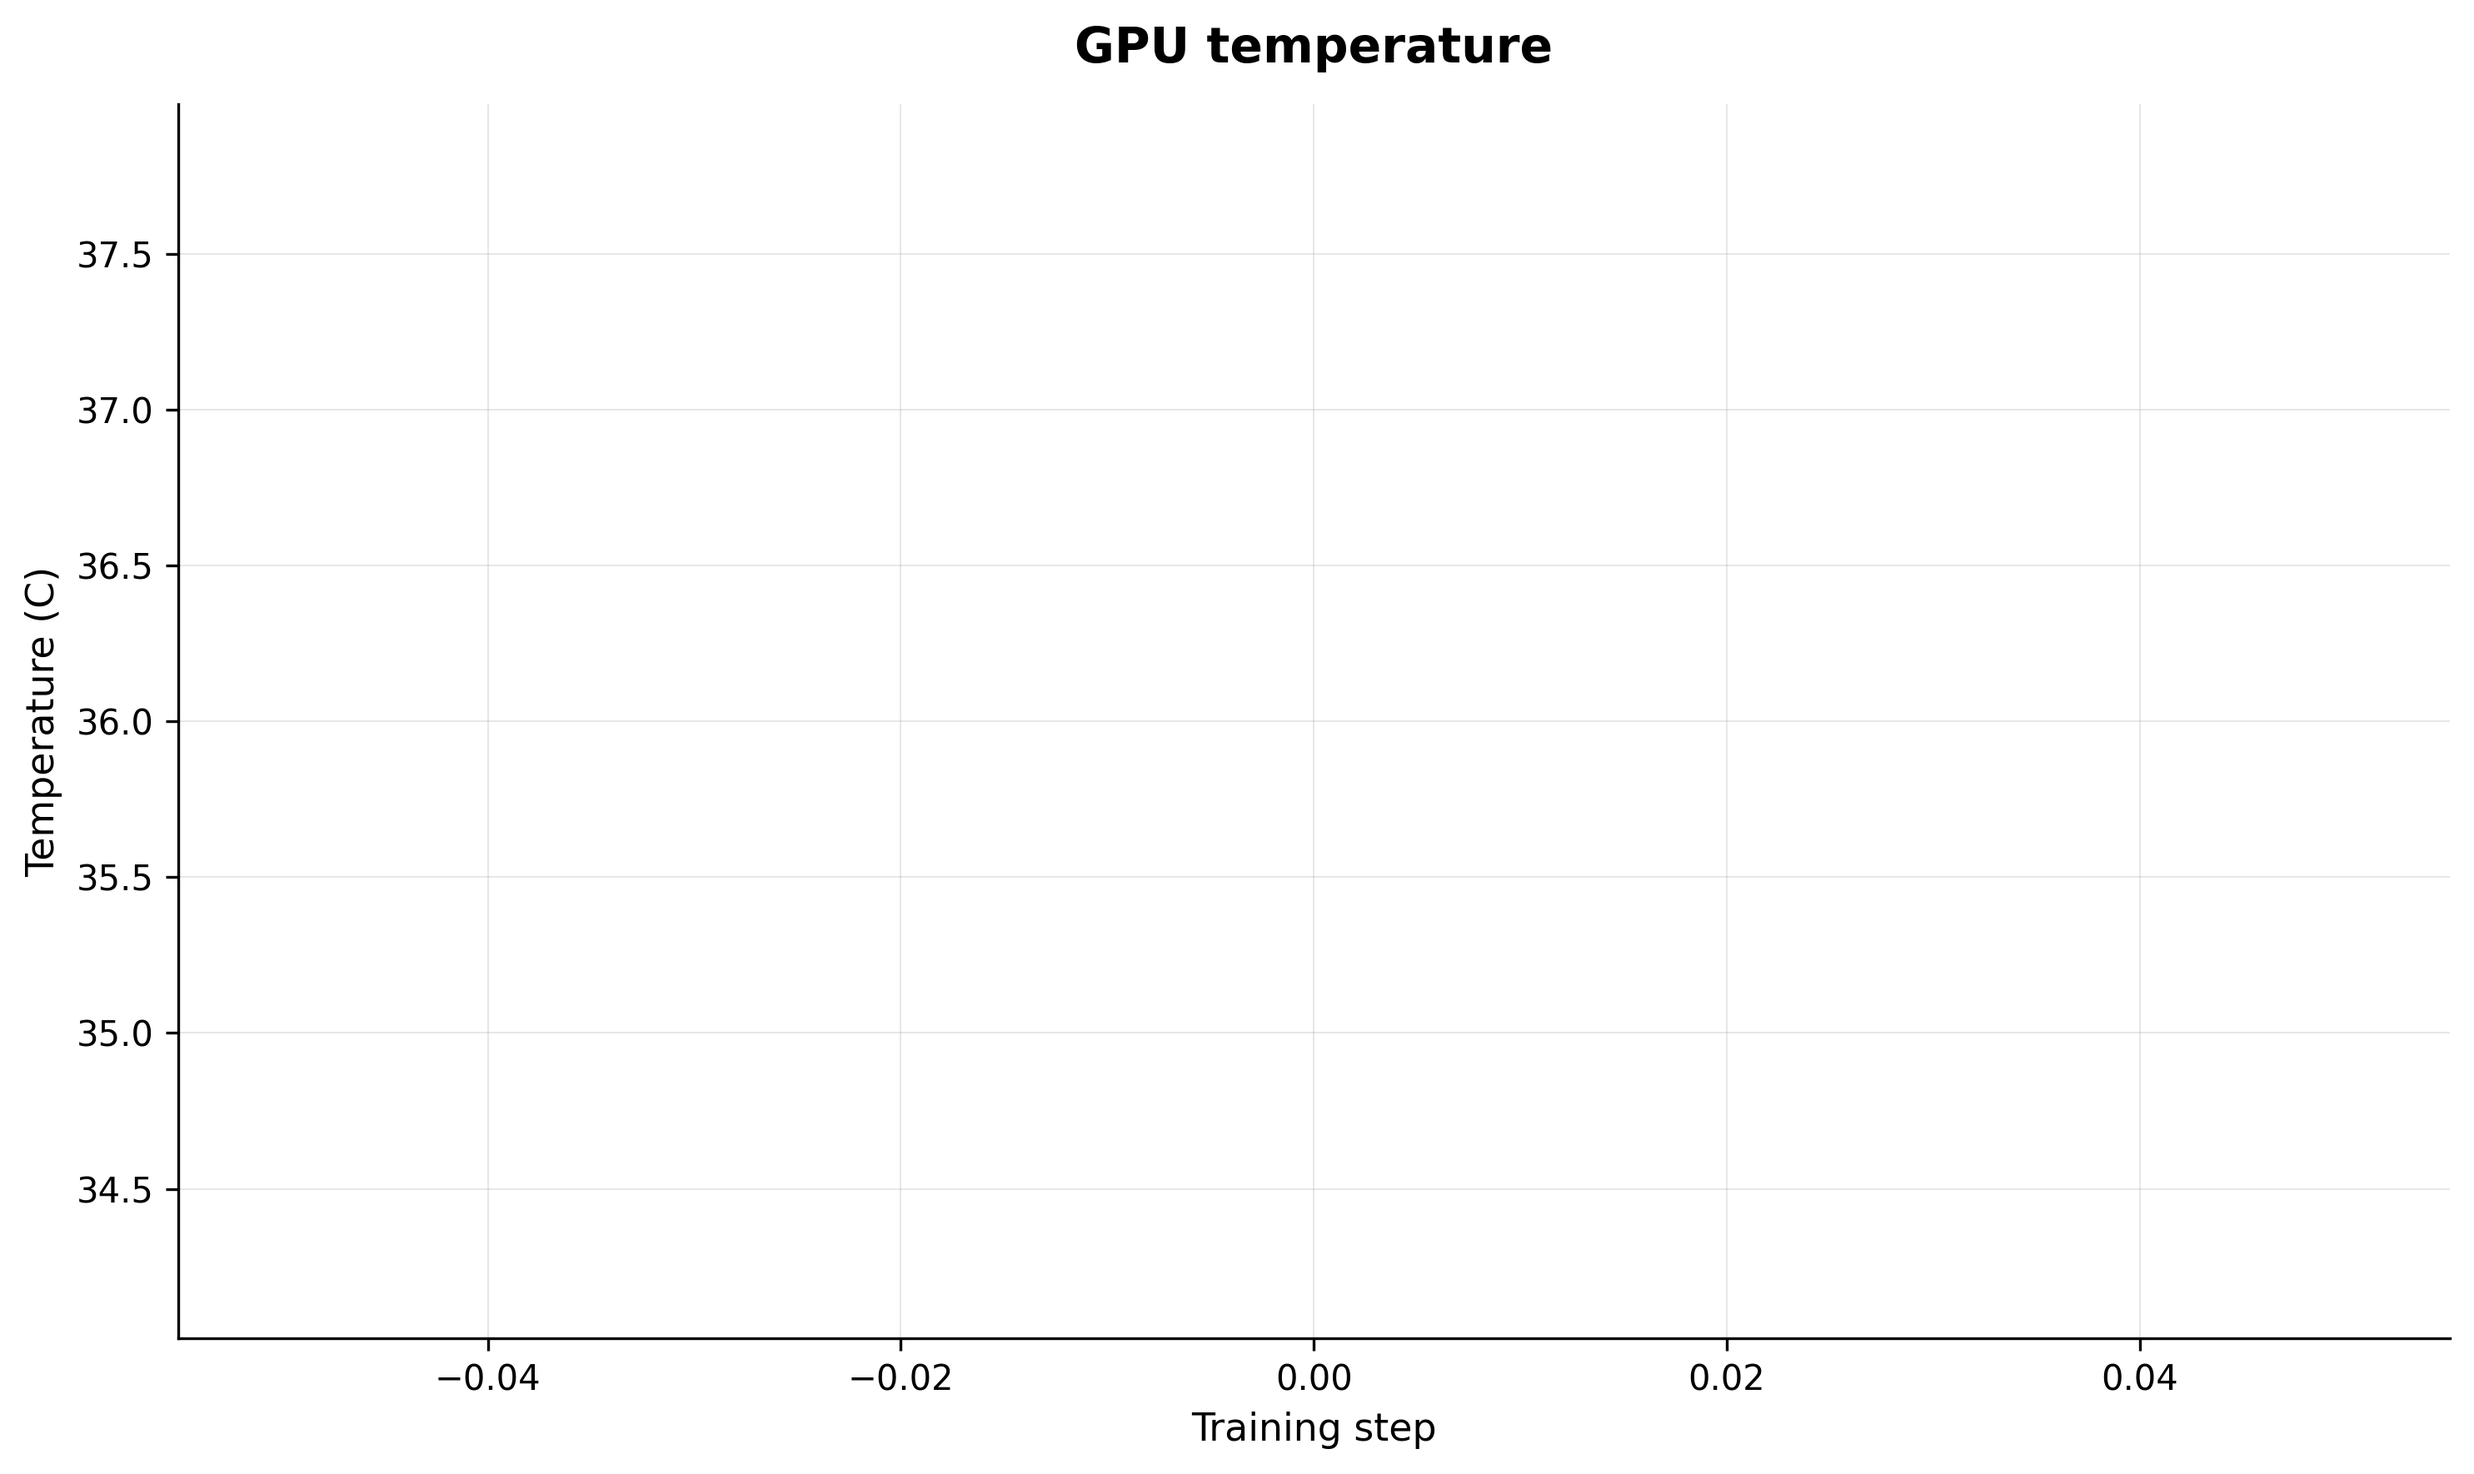
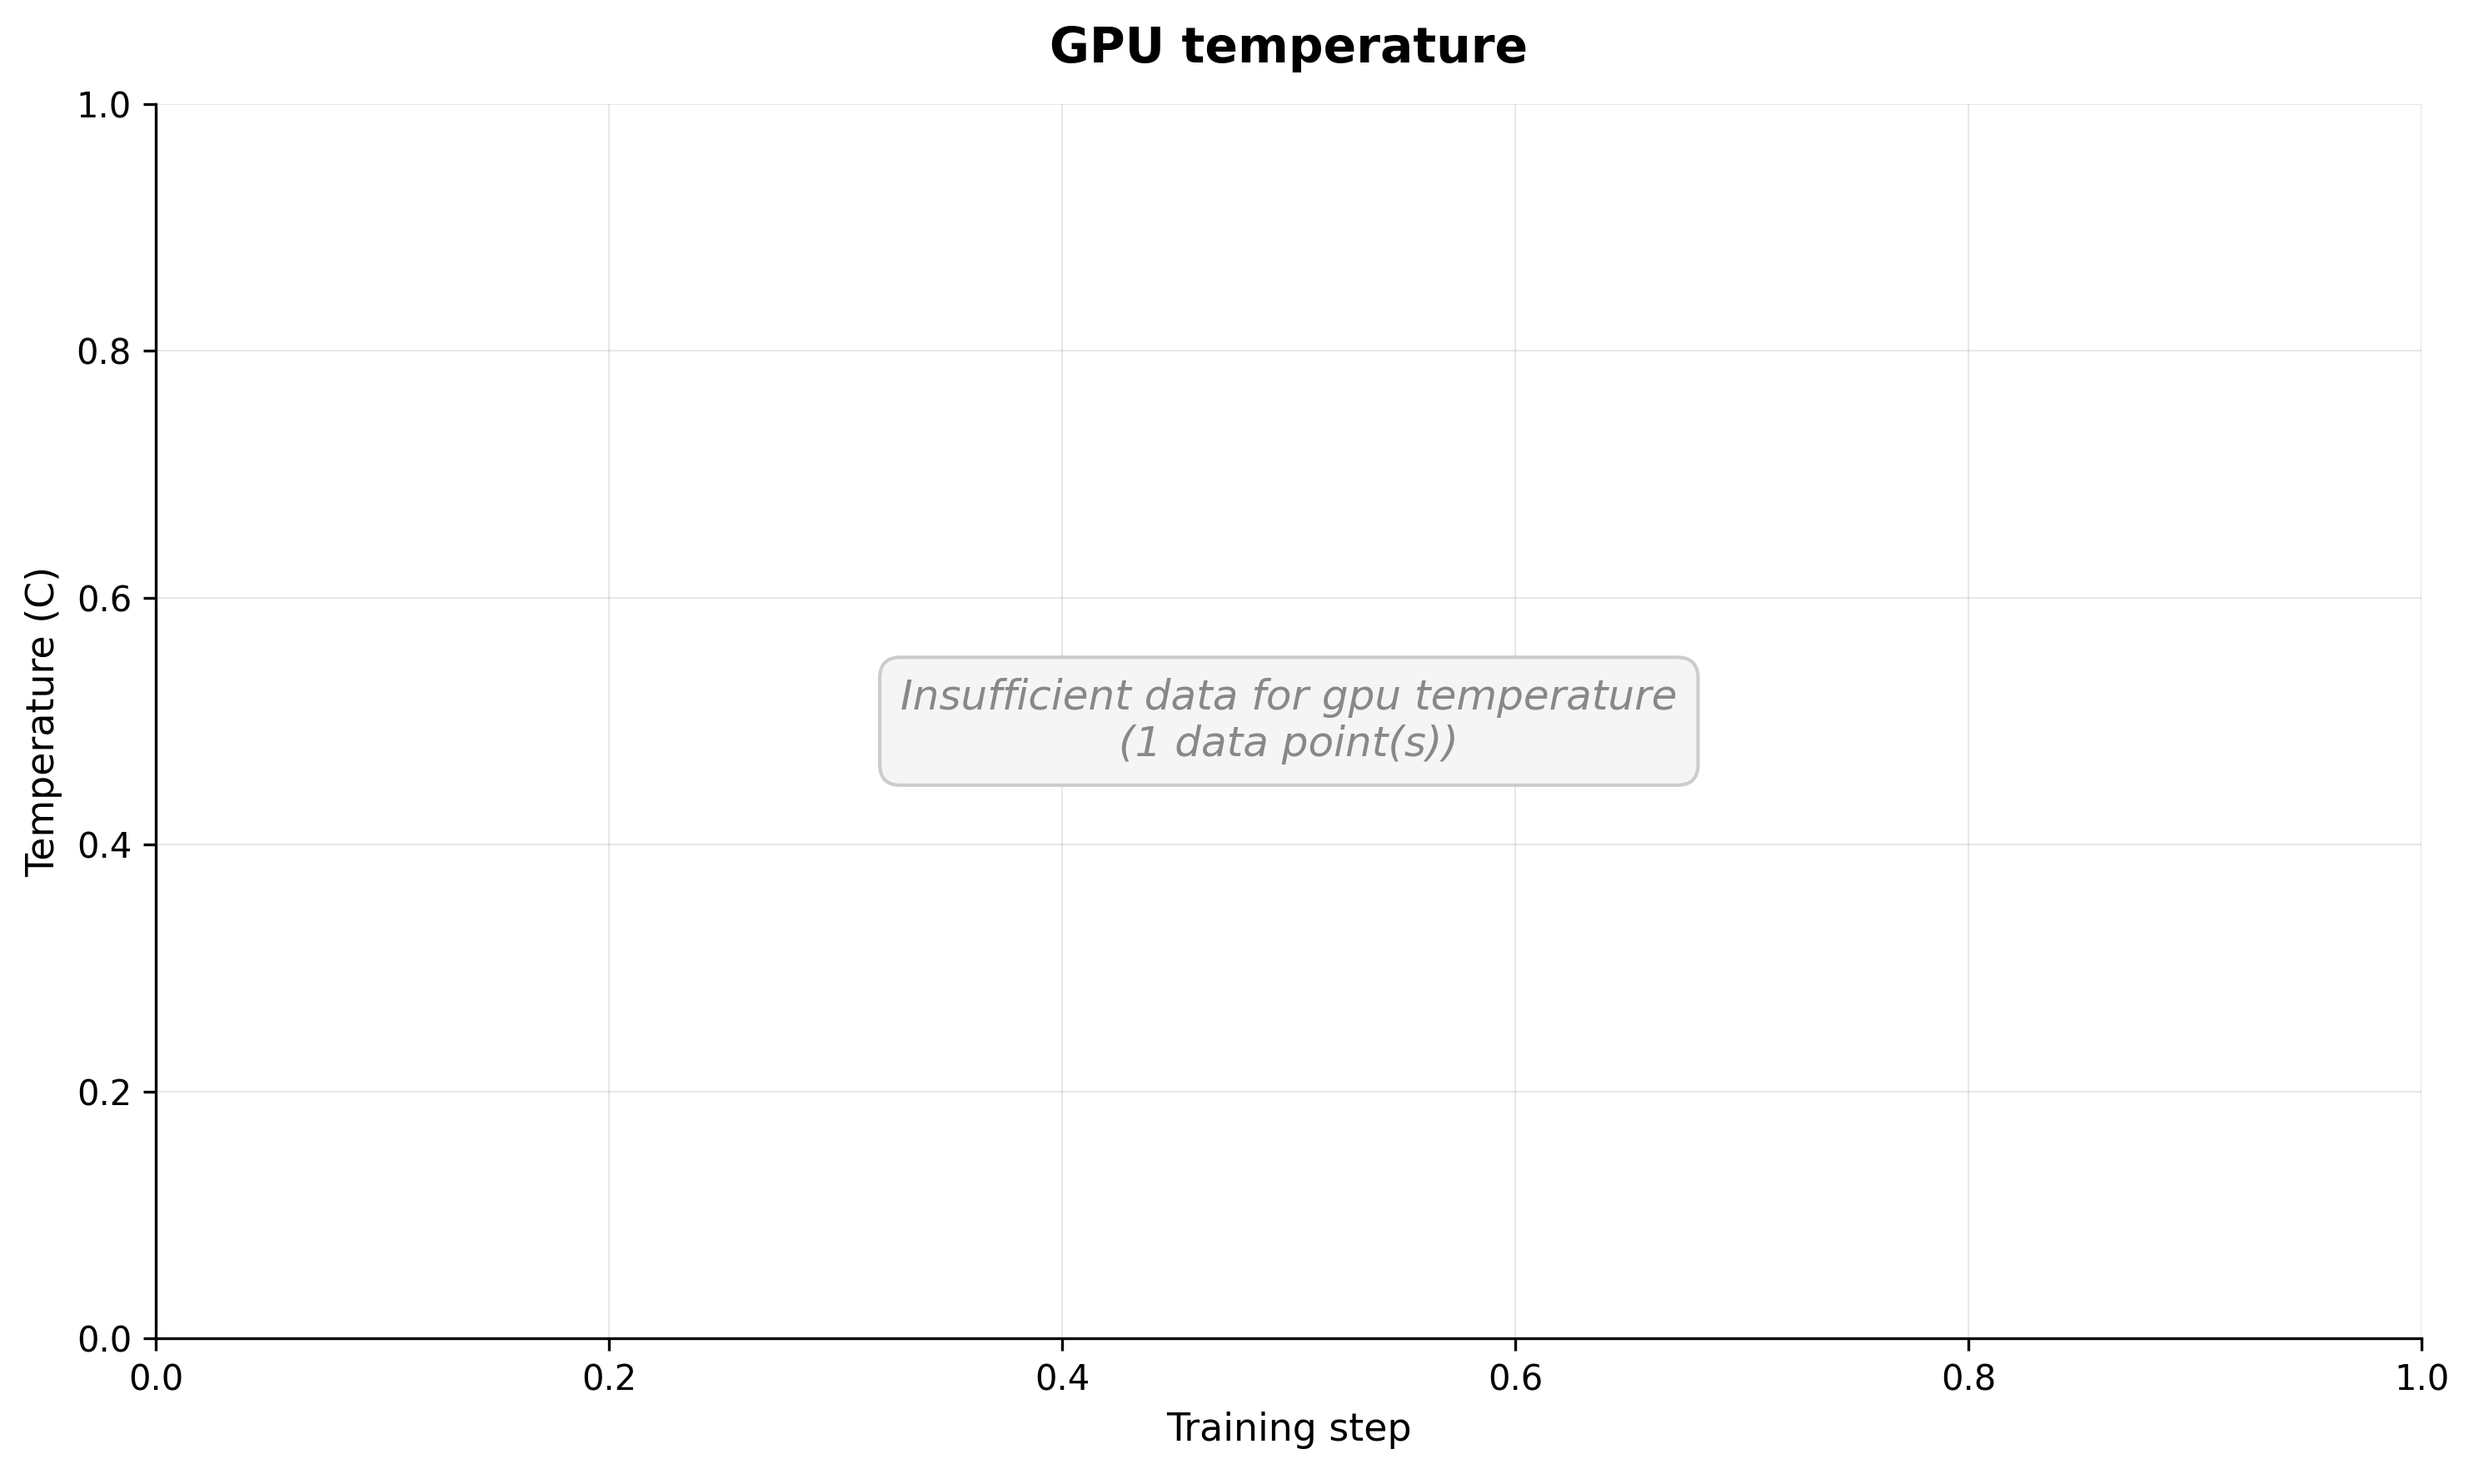
Fix analyze_training.py to handle insufficient data gracefully
- Add _add_insufficient_data_notice() for centered plot notices
- Guard loss curves, perplexity gap, LR schedule, and resource plots
  against <2 data points with informative "Insufficient data" displays
- Fix report text for single-step logs to avoid misleading "decreased
  from X to X" wording
- Show logged step count when total_steps is 0
- Regenerate all results/sft/ artifacts with updated analysis

diff --git a/scripts/analyze_training.py b/scripts/analyze_training.py
@@ -272,6 +272,17 @@ def _add_epoch_markers(
         prev_epoch = epoch
 
 
+def _add_insufficient_data_notice(ax: plt.Axes, message: str) -> None:
+    """Add a centered notice to an axes when data is insufficient for plotting."""
+    ax.text(
+        0.5, 0.5, message,
+        transform=ax.transAxes, ha="center", va="center",
+        fontsize=12, color="#888888", style="italic",
+        bbox=dict(boxstyle="round,pad=0.5", facecolor="#f5f5f5",
+                  edgecolor="#cccccc", linewidth=1.0),
+    )
+
+
 def plot_loss_curves(
     steps: list[dict],
     validations: list[dict],
@@ -283,14 +294,26 @@ def plot_loss_curves(
     # Train loss from step entries
     train_steps = [s["step"] for s in steps]
     train_losses = [s["loss"] for s in steps]
-    ax.plot(
-        train_steps, train_losses,
-        color=TRAIN_COLOR, linewidth=1.2, alpha=0.8, label="Train loss",
-    )
 
     # Validation loss at validation intervals
     val_steps = [v["step"] for v in validations]
     val_losses = [v["val_loss"] for v in validations]
+
+    total_points = len(train_steps) + len(val_steps)
+    if len(train_steps) < 2 and len(val_steps) < 2:
+        _setup_axes(ax, "Training and validation loss", "Training step", "Loss")
+        _add_insufficient_data_notice(
+            ax, f"Insufficient data for loss curves\n({total_points} data point(s) logged)"
+        )
+        fig.tight_layout()
+        fig.savefig(output_path, dpi=DPI, bbox_inches="tight")
+        plt.close(fig)
+        return
+
+    ax.plot(
+        train_steps, train_losses,
+        color=TRAIN_COLOR, linewidth=1.2, alpha=0.8, label="Train loss",
+    )
     ax.plot(
         val_steps, val_losses,
         color=VAL_COLOR, linewidth=1.5, marker="o", markersize=4,
@@ -316,6 +339,19 @@ def plot_perplexity_gap(
 ) -> None:
     """Generate perplexity gap plot: train vs val perplexity at validation points."""
     fig, ax = plt.subplots(figsize=FIGURE_SIZE)
+
+    if len(validations) < 2:
+        _setup_axes(
+            ax, "Train vs validation perplexity",
+            "Training step", "Perplexity",
+        )
+        _add_insufficient_data_notice(
+            ax, f"Insufficient data for perplexity trends\n({len(validations)} validation checkpoint(s))"
+        )
+        fig.tight_layout()
+        fig.savefig(output_path, dpi=DPI, bbox_inches="tight")
+        plt.close(fig)
+        return
 
     val_steps = [v["step"] for v in validations]
     train_ppl = [v.get("train_perplexity", 0.0) for v in validations]
@@ -356,8 +392,21 @@ def plot_lr_schedule(
     """Generate learning rate schedule plot."""
     fig, ax = plt.subplots(figsize=FIGURE_SIZE)
 
-    step_nums = [s["step"] for s in steps]
-    lrs = [s.get("lr", 0.0) for s in steps]
+    step_nums = [s["step"] for s in steps if "lr" in s]
+    lrs = [s["lr"] for s in steps if "lr" in s]
+
+    if len(step_nums) < 2:
+        _setup_axes(
+            ax, "Learning rate schedule",
+            "Training step", "Learning rate",
+        )
+        _add_insufficient_data_notice(
+            ax, f"Insufficient data for LR schedule\n({len(step_nums)} step(s) with LR data)"
+        )
+        fig.tight_layout()
+        fig.savefig(output_path, dpi=DPI, bbox_inches="tight")
+        plt.close(fig)
+        return
 
     ax.plot(
         step_nums, lrs,
@@ -394,6 +443,17 @@ def plot_resource_metric(
     step_nums, values = zip(*filtered)
 
     fig, ax = plt.subplots(figsize=FIGURE_SIZE)
+
+    if len(filtered) < 2:
+        _setup_axes(ax, title, "Training step", ylabel)
+        _add_insufficient_data_notice(
+            ax, f"Insufficient data for {title.lower()}\n({len(filtered)} data point(s))"
+        )
+        fig.tight_layout()
+        fig.savefig(output_path, dpi=DPI, bbox_inches="tight")
+        plt.close(fig)
+        return True
+
     ax.plot(step_nums, values, color=color, linewidth=1.2, alpha=0.8)
 
     y_max = max(values) if values else 1.0
@@ -561,6 +621,13 @@ def _interpret_loss_curves(
     if not steps:
         return "Insufficient data for loss curve interpretation."
 
+    if len(steps) < 2:
+        loss = steps[0].get("loss", 0.0)
+        return (
+            f"Only one training step was logged (loss = {loss:.4f}). "
+            f"This is insufficient data to analyze loss curve trends."
+        )
+
     first_loss = steps[0].get("loss", 0.0)
     last_loss = steps[-1].get("loss", 0.0)
     total_steps = steps[-1].get("step", 0) - steps[0].get("step", 0)
@@ -595,6 +662,17 @@ def _interpret_perplexity(validations: list[dict]) -> str:
     """Generate a narrative interpretation of perplexity divergence."""
     if not validations:
         return "No validation data available for perplexity analysis."
+
+    if len(validations) < 2:
+        v = validations[0]
+        train_ppl = v.get("train_perplexity", 0.0)
+        val_ppl = v.get("val_perplexity", 0.0)
+        return (
+            f"Only one validation checkpoint was recorded. "
+            f"Train perplexity: {train_ppl:.2f}, "
+            f"validation perplexity: {val_ppl:.2f}. "
+            f"Multiple checkpoints are needed to analyze perplexity trends."
+        )
 
     first_v = validations[0]
     last_v = validations[-1]
@@ -856,12 +934,24 @@ def generate_report(
             f"({valid} valid entries out of {parsed['total_lines']} total lines).\n"
         )
 
+    # Minimal data warning
+    logged_steps = len(steps)
+    if logged_steps < 2:
+        incompleteness_note += (
+            f"\n> **Note:** Only {logged_steps} training step(s) were logged. "
+            f"Most trend analyses and plots require multiple data points and "
+            f"will show limited information.\n"
+        )
+
     # Training overview narrative
     final_train_loss = validations[-1].get("train_loss", 0.0) if validations else 0.0
     final_val_loss = validations[-1].get("val_loss", 0.0) if validations else 0.0
     epoch_str = f" across {max_epoch + 1} epoch(s)" if max_epoch is not None else ""
+
+    # Use logged step count when total_steps is 0 (only step 0 logged)
+    step_display = total_steps if total_steps > 0 else logged_steps
     overview = (
-        f"The training ran for {total_steps} steps{epoch_str}, "
+        f"The training ran for {step_display} logged step(s){epoch_str}, "
         f"taking approximately {training_time} of wall-clock time. "
         f"The final training loss was {final_train_loss:.4f} and the "
         f"final validation loss was {final_val_loss:.4f}."

diff --git a/results/sft/overfitting_report.md b/results/sft/overfitting_report.md
@@ -1,18 +1,20 @@
 # Training Analysis Report
 
 **Log:** sft_log.jsonl
-**Generated:** 2026-03-19 18:47 UTC
+**Generated:** 2026-03-20 01:42 UTC
 **Model:** 30L, 20H, 1600D, ctx=1024, dropout=0.1
+
+> **Note:** Only 1 training step(s) were logged. Most trend analyses and plots require multiple data points and will show limited information.
 
 ## Training overview
 
-The training ran for 0 steps across 1 epoch(s), taking approximately N/A of wall-clock time. The final training loss was 9.4855 and the final validation loss was 9.2643.
+The training ran for 1 logged step(s) across 1 epoch(s), taking approximately N/A of wall-clock time. The final training loss was 9.4855 and the final validation loss was 9.2643.
 
 ## Loss curves
 
 ![Loss Curves](train_val_loss.png)
 
-Training loss decreased from 9.2578 to 9.2578 over 0 steps, a 0.0% reduction.
+Only one training step was logged (loss = 9.2578). This is insufficient data to analyze loss curve trends.
 
 ## Per-epoch breakdown
 
@@ -26,7 +28,7 @@ Metrics at each validation checkpoint, grouped by epoch.
 
 ![Perplexity Gap](perplexity_gap.png)
 
-Train perplexity decreased from 13168.03 to 13168.03. Validation perplexity moved from 10554.67 to 10554.67. The gap between train and validation perplexity remained relatively stable throughout training.
+Only one validation checkpoint was recorded. Train perplexity: 13168.03, validation perplexity: 10554.67. Multiple checkpoints are needed to analyze perplexity trends.
 
 ## Learning rate schedule
 
